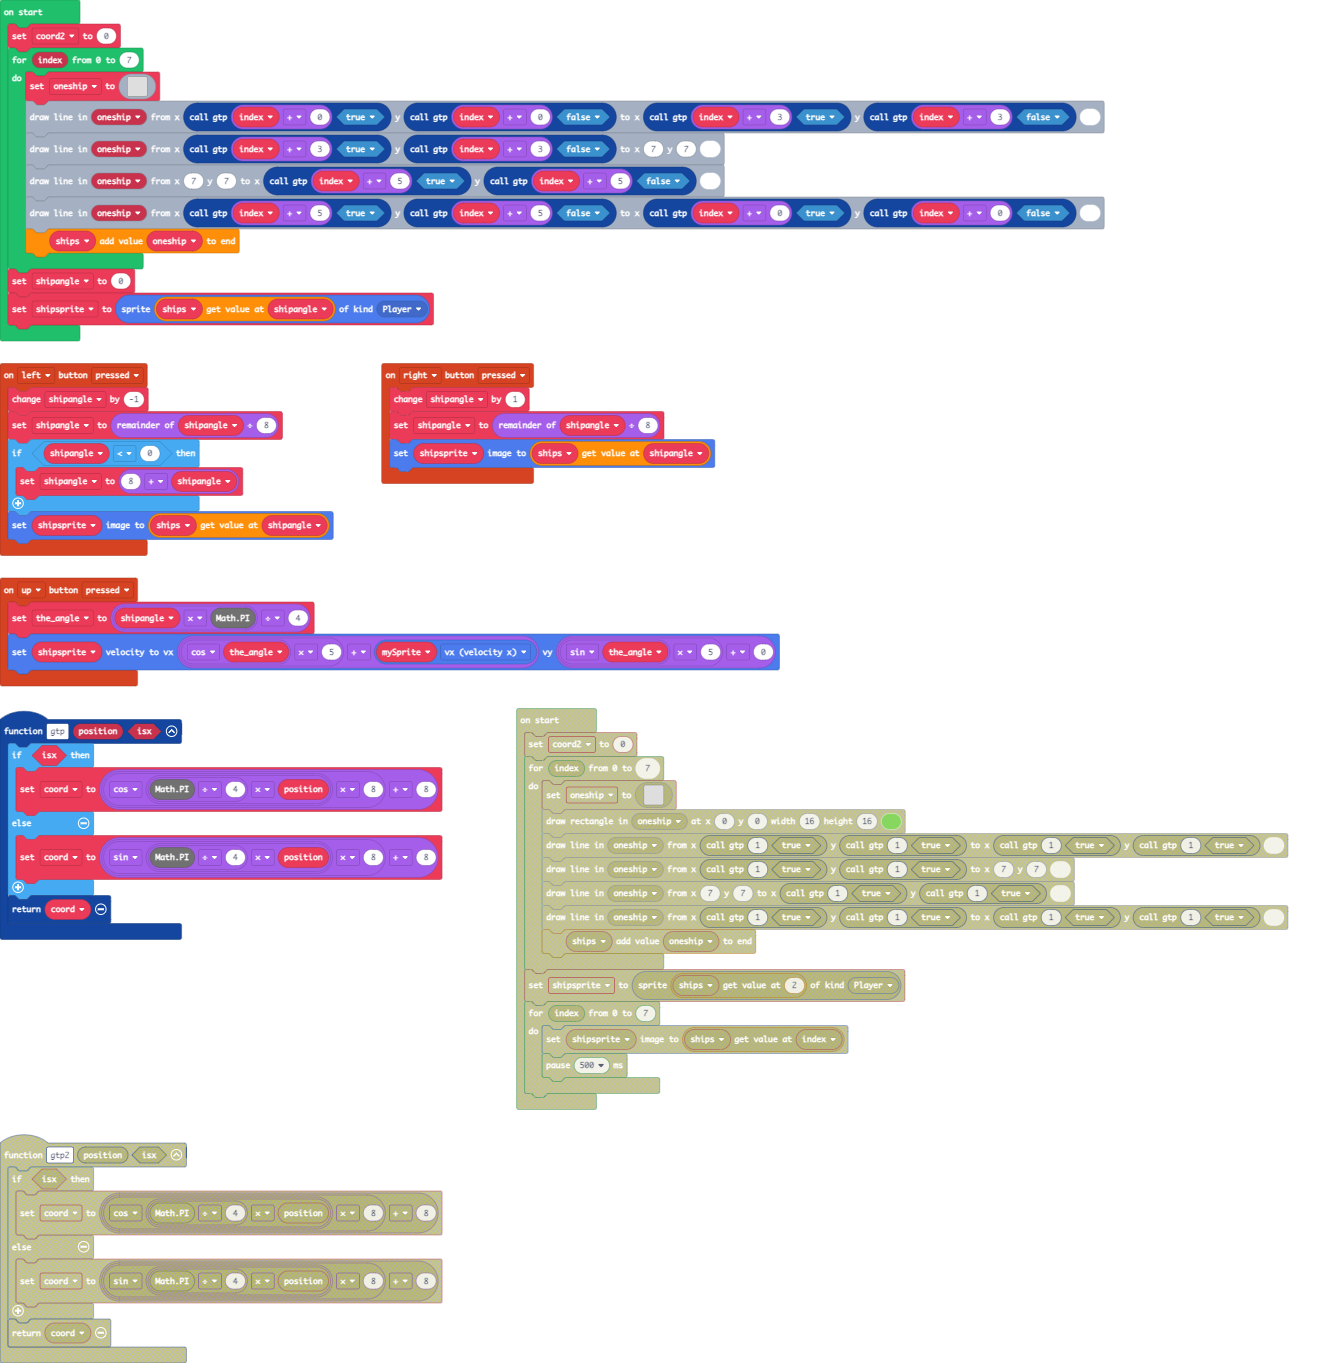
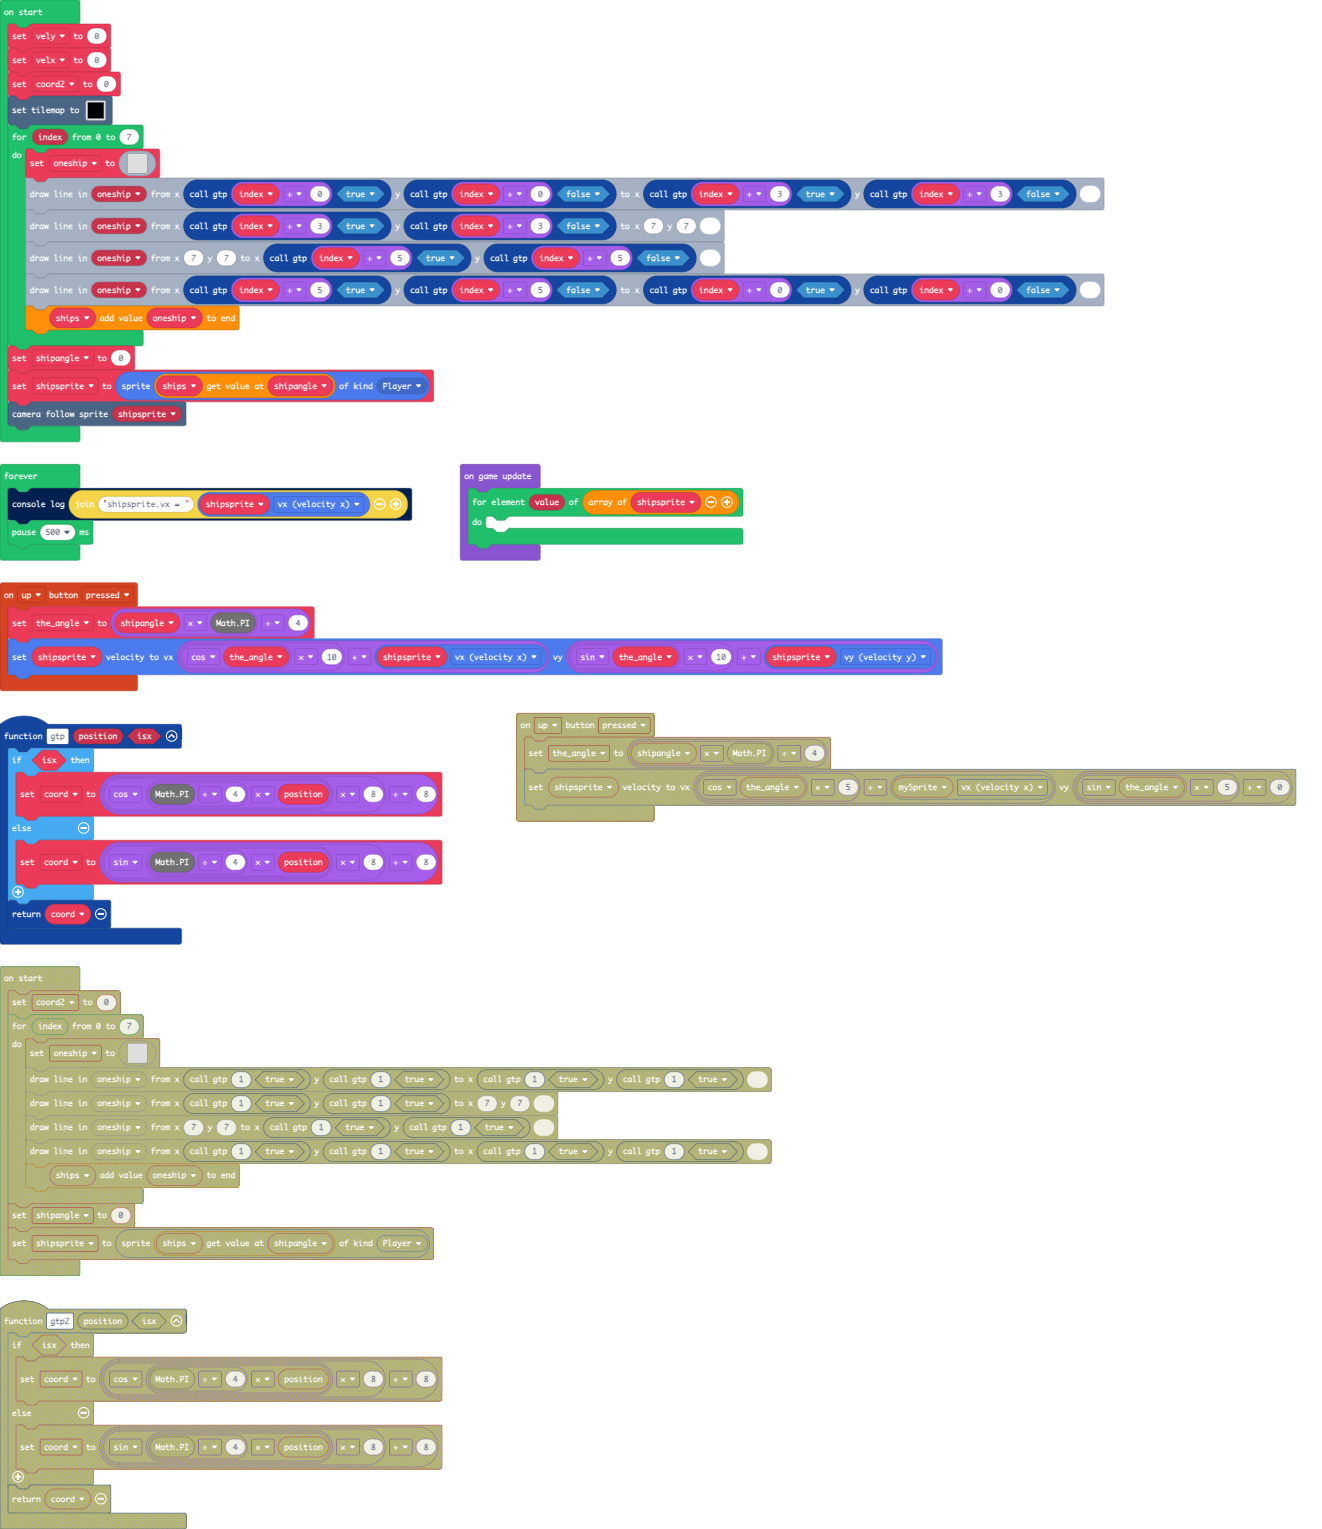
better motion, but only wrapping to the right

diff --git a/tilemap.g.ts b/tilemap.g.ts
@@ -1,0 +1,59 @@
+// Auto-generated code. Do not edit.
+namespace myTiles {
+    //% fixedInstance jres blockIdentity=images._tile
+    export const transparency16 = image.ofBuffer(hex``);
+    //% fixedInstance jres blockIdentity=images._tile
+    export const tile1 = image.ofBuffer(hex``);
+    //% fixedInstance jres blockIdentity=images._tile
+    export const tile2 = image.ofBuffer(hex``);
+    //% fixedInstance jres blockIdentity=images._tile
+    export const tile3 = image.ofBuffer(hex``);
+    //% fixedInstance jres blockIdentity=images._tile
+    export const tile4 = image.ofBuffer(hex``);
+    //% fixedInstance jres blockIdentity=images._tile
+    export const tile5 = image.ofBuffer(hex``);
+
+    helpers._registerFactory("tilemap", function(name: string) {
+        switch(helpers.stringTrim(name)) {
+            case "level1":
+            case "level1":return tiles.createTilemap(hex`1000100002030202020202020202040202020202020202020202020202020202040203020202020102020202030302020202020202020302020202020202020202020302020202020202020202020202020202020202040202020302040202020202020202020202020202020202040202040202020402020202020202020202020203020202020302020204020202020202020202020202020202020202020202020202020202020203020202030202020302020202020202020202020202020202020202040202020202020202020202020203020202020203020202020202020201020202030202020203020204020202020202020202020202020202020202020302`, img`
+2 2 2 2 2 2 2 2 2 2 2 2 2 2 2 2 
+2 . . . . . . . . . . . . . . 2 
+2 . . . . . . . . . . . . . . 2 
+2 . . . . . . . . . . . . . . 2 
+2 . . . . . . . . . . . . . . 2 
+2 . . . . . . . . . . . . . . 2 
+2 . . . . . . . . . . . . . . 2 
+2 . . . . . . . . . . . . . . 2 
+2 . . . . . . . . . . . . . . 2 
+2 . . . . . . . . . . . . . . 2 
+2 . . . . . . . . . . . . . . 2 
+2 . . . . . . . . . . . . . . 2 
+2 . . . . . . . . . . . . . . 2 
+2 . . . . . . . . . . . . . . 2 
+2 . . . . . . . . . . . . . . 2 
+2 2 2 2 2 2 2 2 2 2 2 2 2 2 2 2 
+`, [myTiles.transparency16,myTiles.tile1,myTiles.tile2,myTiles.tile3,myTiles.tile4], TileScale.Sixteen);
+        }
+        return null;
+    })
+
+    helpers._registerFactory("tile", function(name: string) {
+        switch(helpers.stringTrim(name)) {
+            case "transparency16":return transparency16;
+            case "myTile":
+            case "tile1":return tile1;
+            case "myTile0":
+            case "tile2":return tile2;
+            case "myTile1":
+            case "tile3":return tile3;
+            case "myTile2":
+            case "tile4":return tile4;
+            case "myTile3":
+            case "tile5":return tile5;
+        }
+        return null;
+    })
+
+}
+// Auto-generated code. Do not edit.

diff --git a/main.ts b/main.ts
@@ -29,7 +29,10 @@ let shipsprite: Sprite = null
 let shipangle = 0
 let ships: Image[] = []
 let oneship: Image = null
+let vely = 0
+let velx = 0
 let coord2 = 0
+tiles.setTilemap(tilemap`level1`)
 for (let index = 0; index <= 7; index++) {
     oneship = img`
         . . . . . . . . . . . . . . . . 
@@ -57,3 +60,17 @@ for (let index = 0; index <= 7; index++) {
 }
 shipangle = 0
 shipsprite = sprites.create(ships[shipangle], SpriteKind.Player)
+scene.cameraFollowSprite(shipsprite)
+
+
+game.onUpdate(function () {
+    for (let value of [shipsprite]) {
+    	if (value.right > 235) {
+            value.right = 0
+        }
+    }
+})
+forever(function () {
+    console.log("shipsprite.vx = " + shipsprite.vx)
+    pause(500)
+})
